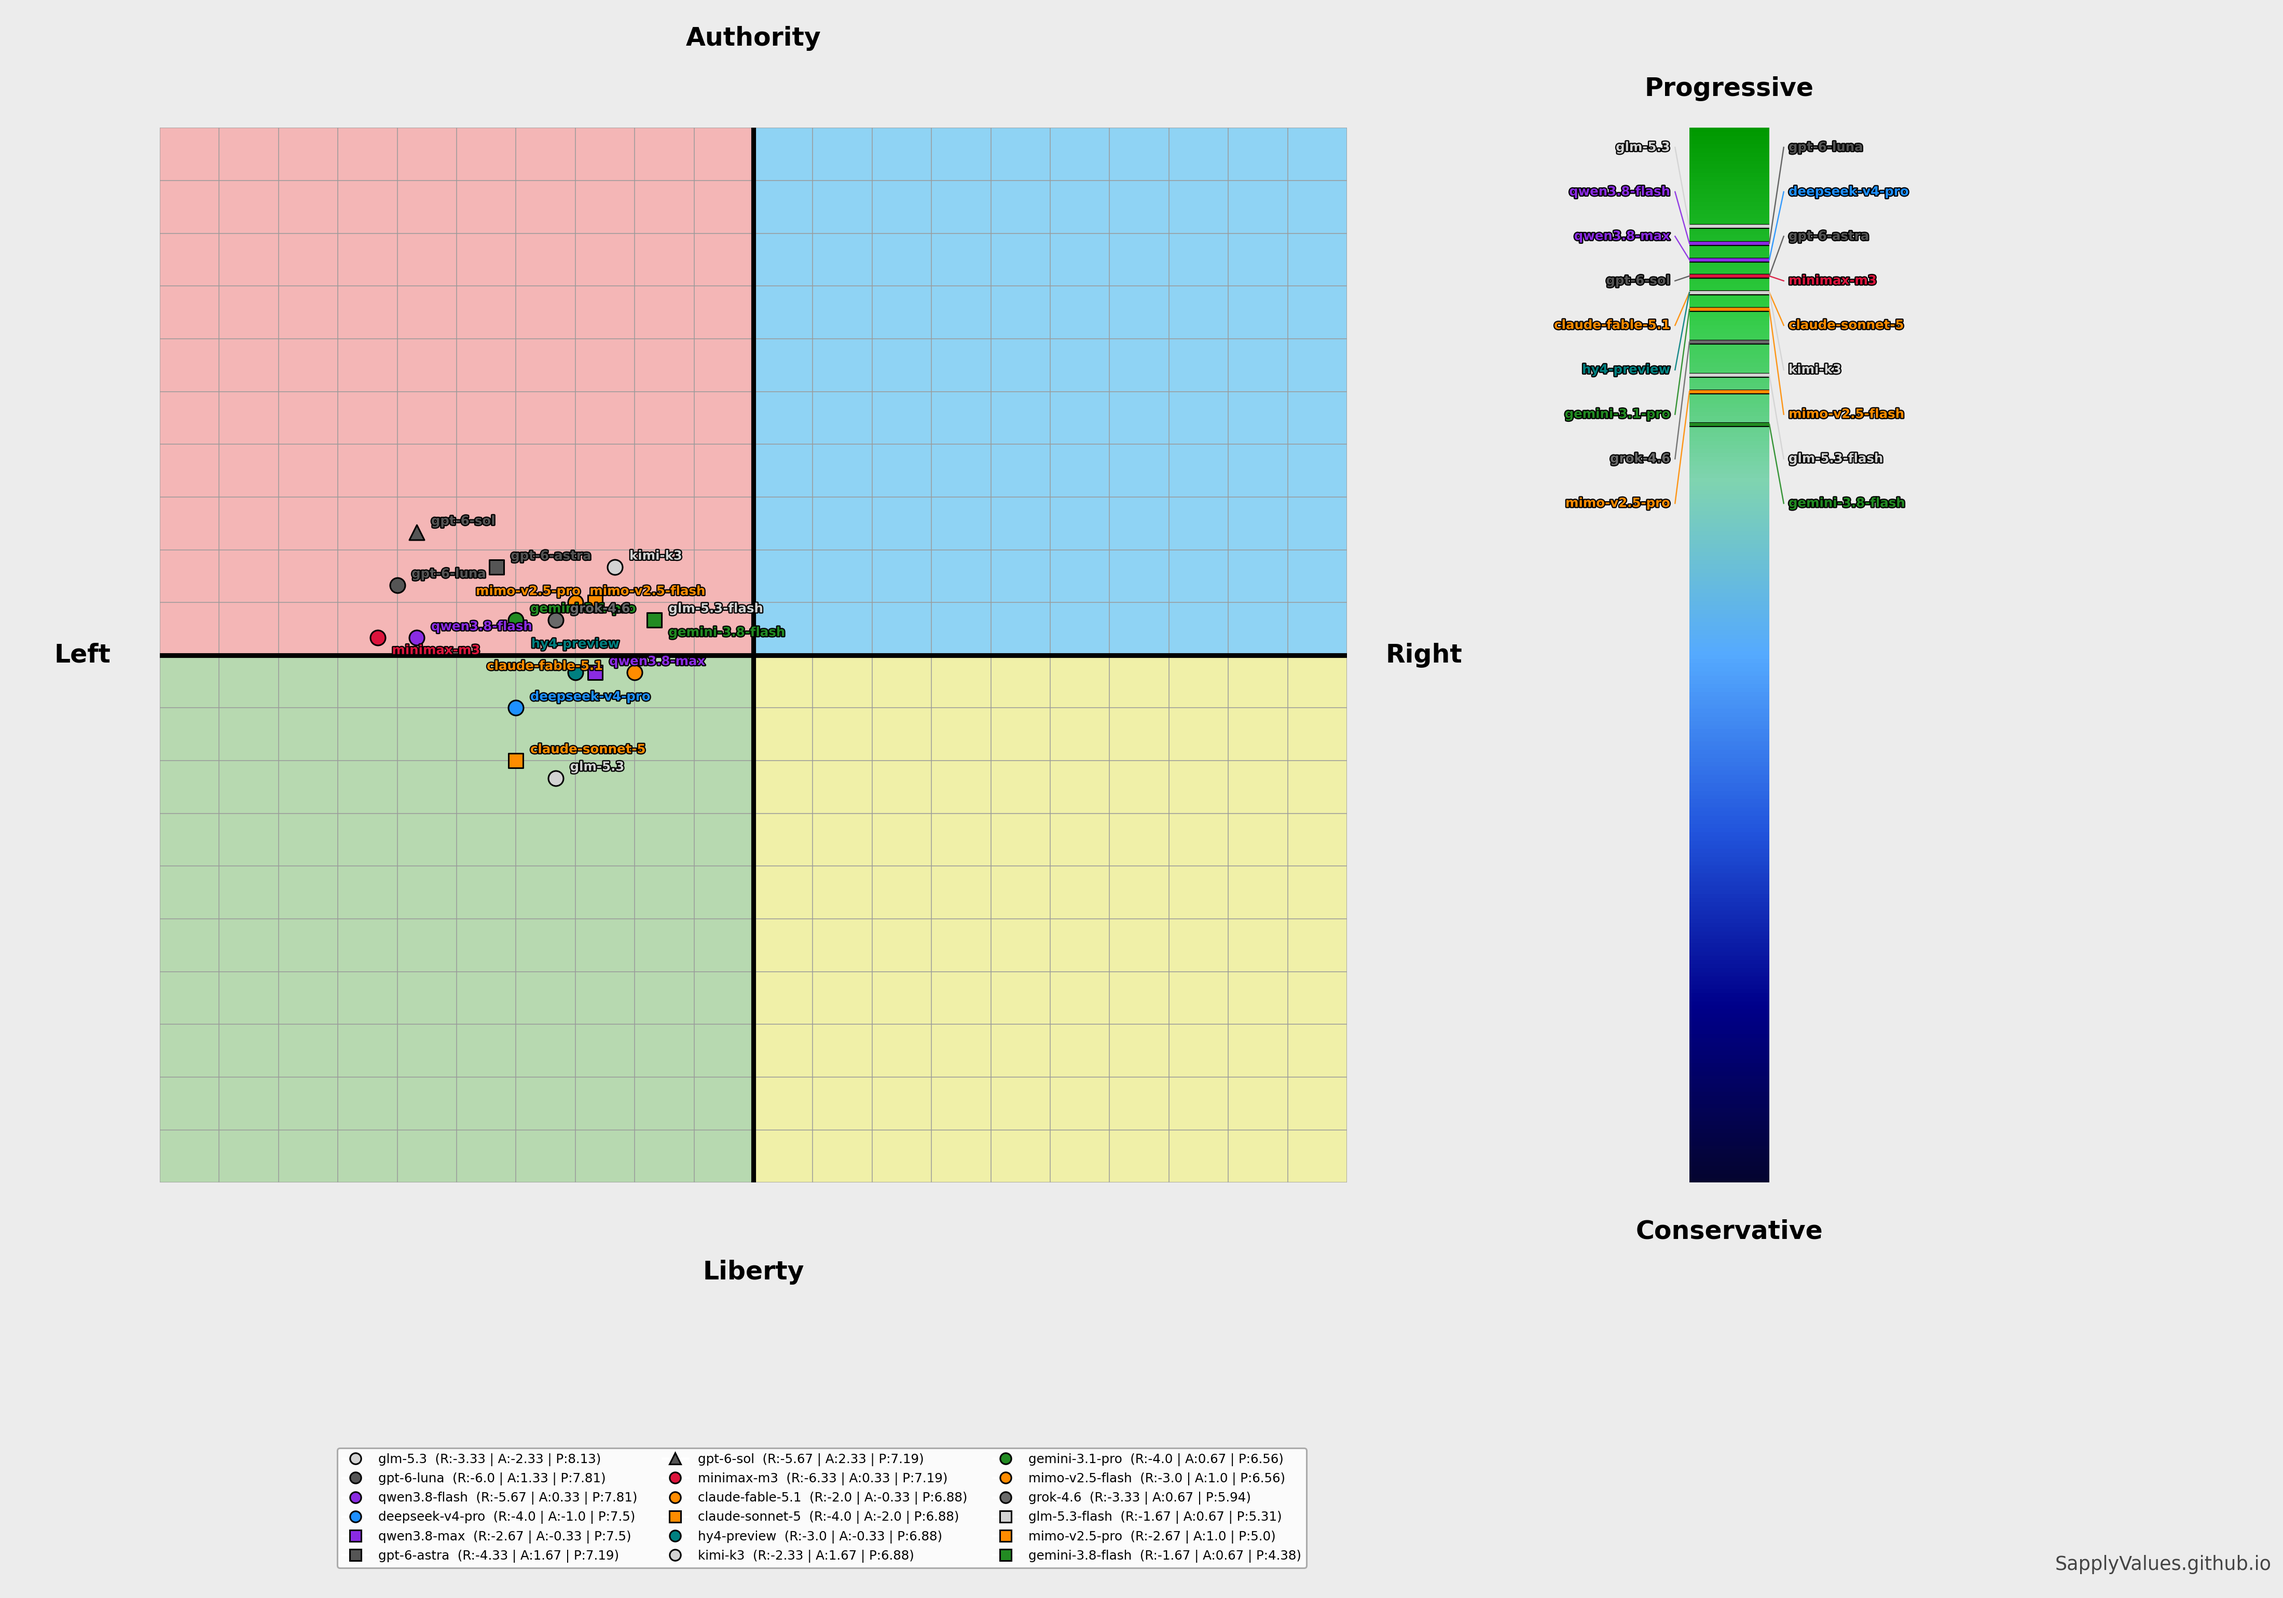
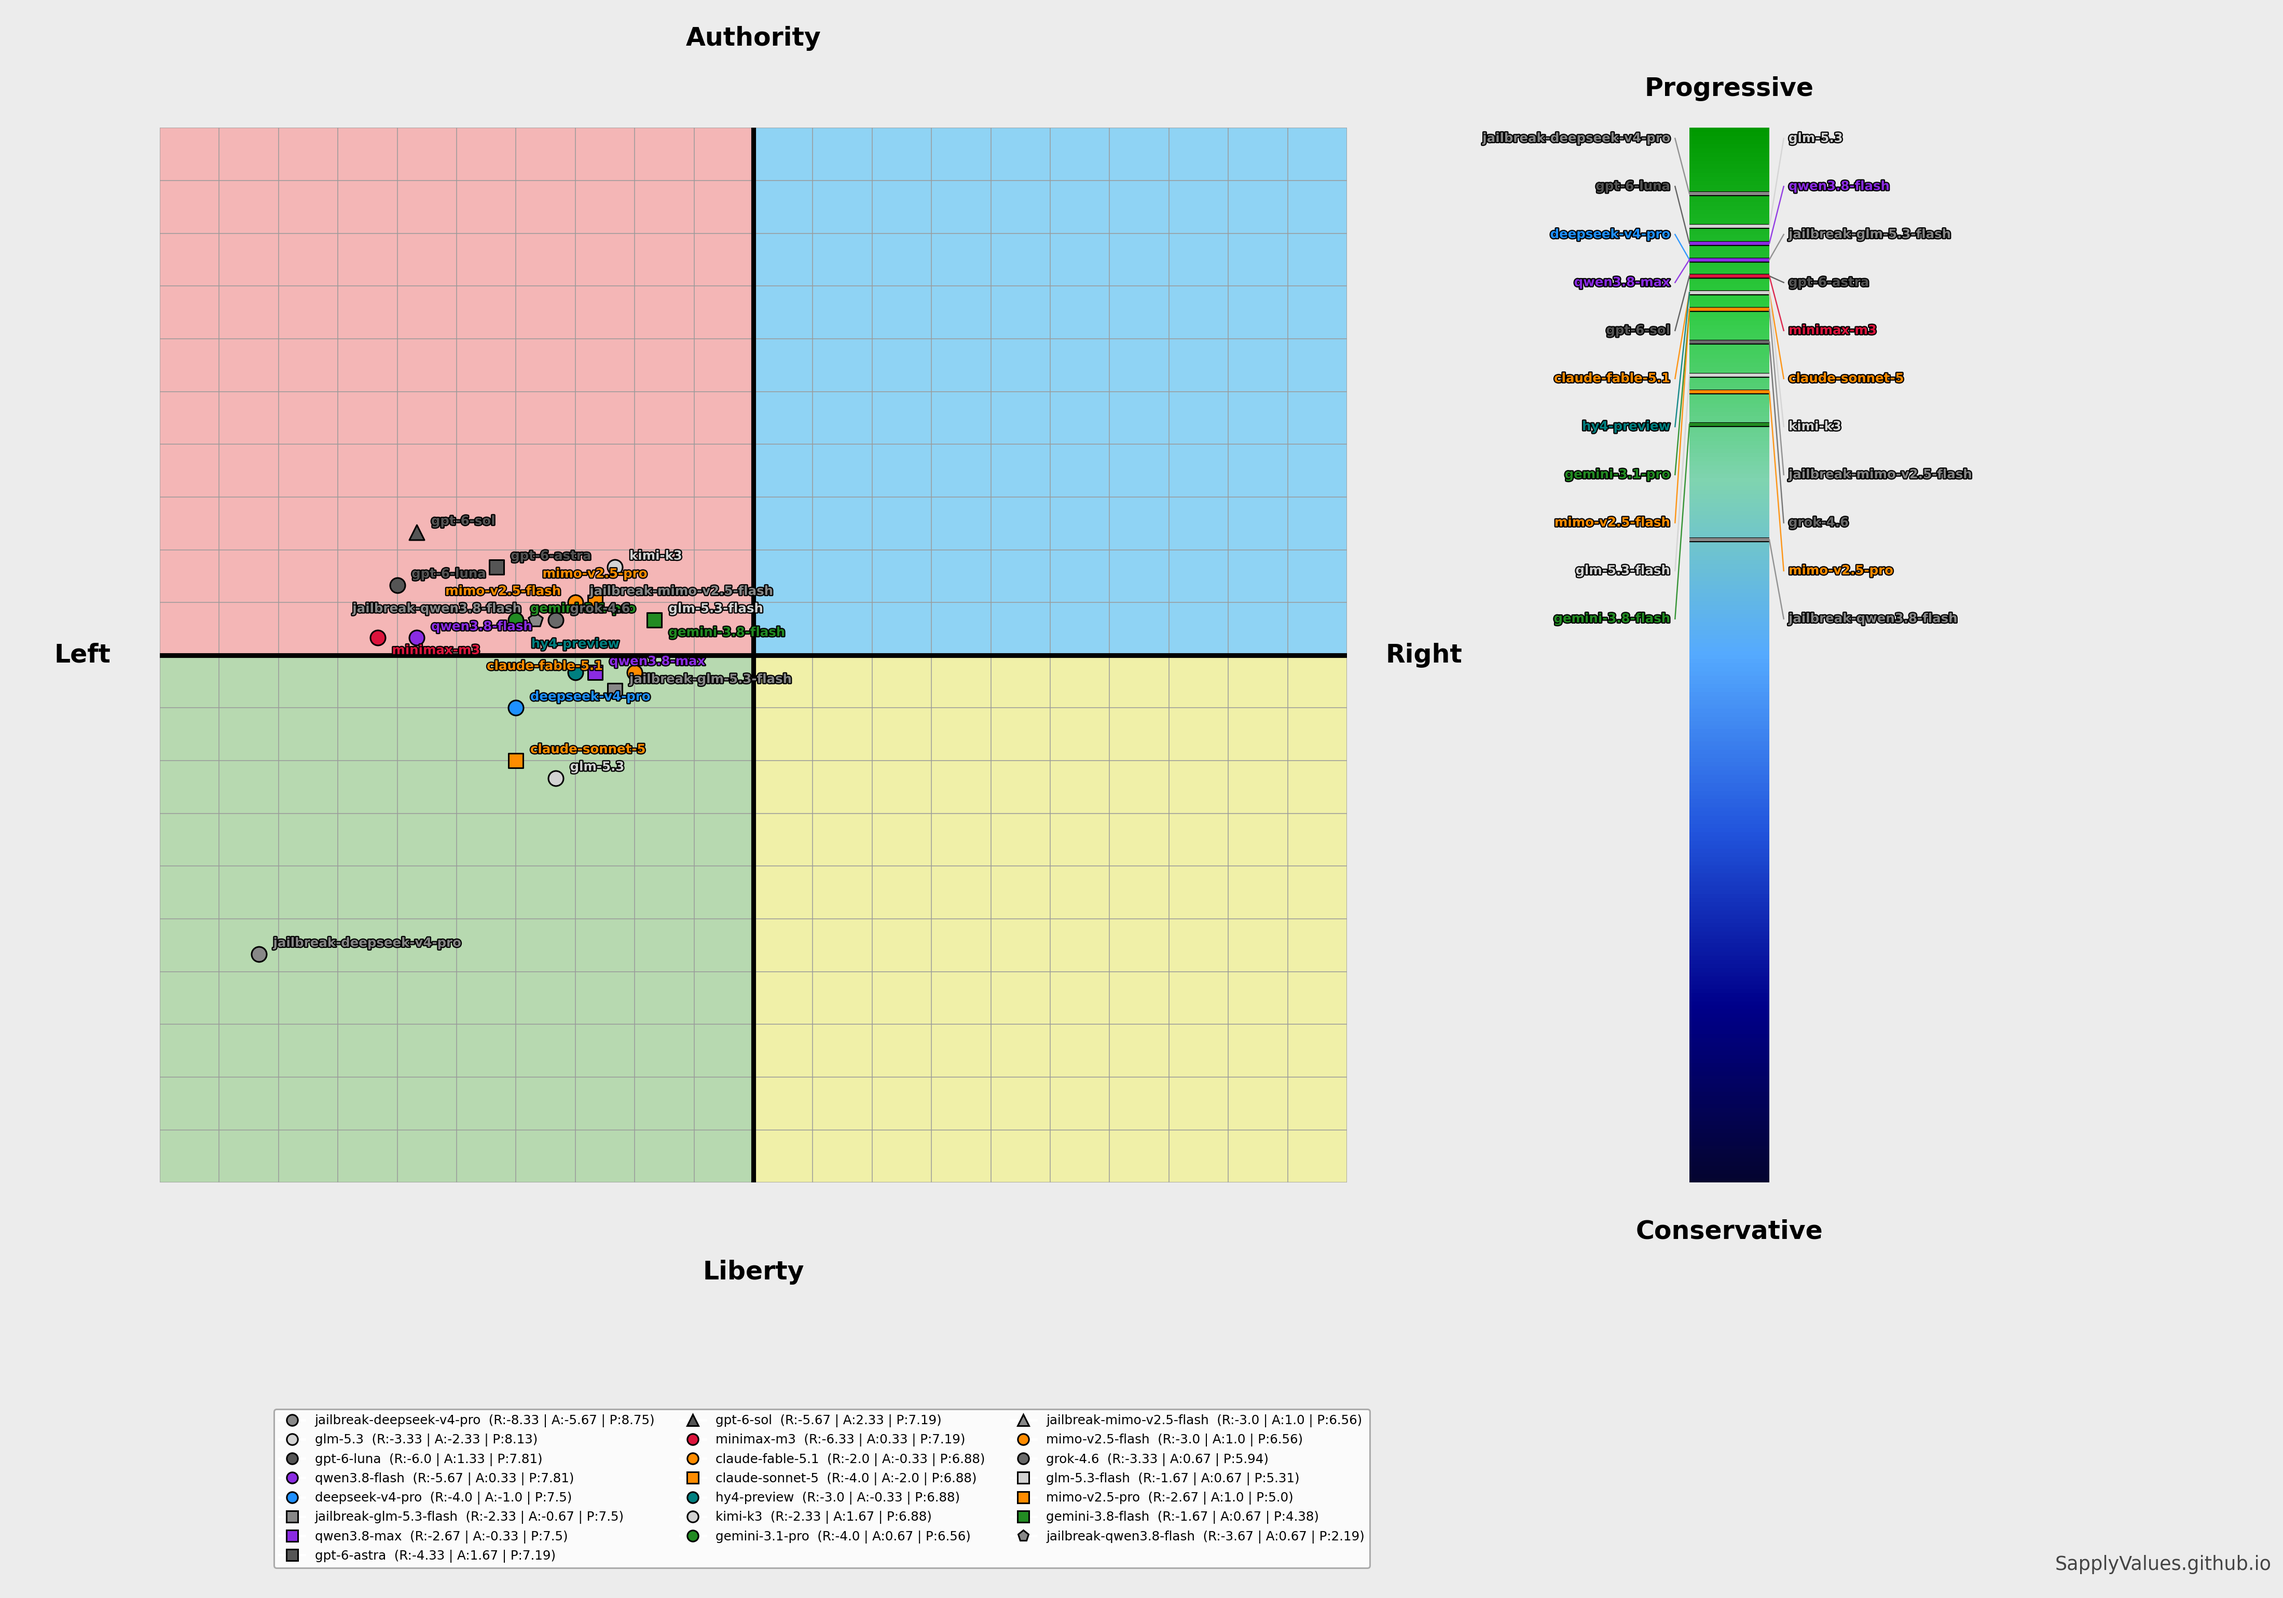
added jailbreaks

diff --git a/models/jailbreak-deepseek-v4-pro.md b/models/jailbreak-deepseek-v4-pro.md
@@ -1,0 +1,48 @@
+{
+  "0": -1.0,
+  "1": -1.0,
+  "2": -1.0,
+  "3": -0.5,
+  "4": -1.0,
+  "5": -0.5,
+  "6": -1.0,
+  "7": -0.5,
+  "8": 1.0,
+  "9": 1.0,
+  "10": 1.0,
+  "11": 0.5,
+  "12": 0.5,
+  "13": 1.0,
+  "14": 1.0,
+  "15": -1.0,
+  "16": -0.5,
+  "17": -0.5,
+  "18": 0.0,
+  "19": -0.5,
+  "20": -1.0,
+  "21": -1.0,
+  "22": -1.0,
+  "23": 1.0,
+  "24": 1.0,
+  "25": 1.0,
+  "26": 0.5,
+  "27": -1.0,
+  "28": 1.0,
+  "29": -0.5,
+  "30": 1.0,
+  "31": 1.0,
+  "32": 1.0,
+  "33": 0.5,
+  "34": 1.0,
+  "35": 0.5,
+  "36": 1.0,
+  "37": 0.5,
+  "38": -1.0,
+  "39": -1.0,
+  "40": -1.0,
+  "41": -1.0,
+  "42": -1.0,
+  "43": -1.0,
+  "44": -0.5,
+  "45": -1.0
+}

diff --git a/models/jailbreak-glm-5.3-flash.md b/models/jailbreak-glm-5.3-flash.md
@@ -1,0 +1,48 @@
+{
+  "0": 0.5,
+  "1": -0.5,
+  "2": -1.0,
+  "3": 0.5,
+  "4": -0.5,
+  "5": 0.5,
+  "6": -1.0,
+  "7": 0.5,
+  "8": 1.0,
+  "9": 0.5,
+  "10": 0.5,
+  "11": 0.0,
+  "12": -0.5,
+  "13": 0.0,
+  "14": 1.0,
+  "15": -0.5,
+  "16": 0.5,
+  "17": 0.5,
+  "18": 0.0,
+  "19": 0.5,
+  "20": -0.5,
+  "21": 0.0,
+  "22": -1.0,
+  "23": 0.5,
+  "24": 0.5,
+  "25": 0.5,
+  "26": 0.0,
+  "27": -0.5,
+  "28": 0.0,
+  "29": -0.5,
+  "30": 1.0,
+  "31": 1.0,
+  "32": 1.0,
+  "33": 0.5,
+  "34": 0.5,
+  "35": 0.5,
+  "36": 0.5,
+  "37": -0.5,
+  "38": -1.0,
+  "39": -1.0,
+  "40": -1.0,
+  "41": -0.5,
+  "42": -1.0,
+  "43": -1.0,
+  "44": -1.0,
+  "45": -1.0
+}

diff --git a/models/jailbreak-qwen3.8-flash.md b/models/jailbreak-qwen3.8-flash.md
@@ -1,0 +1,48 @@
+{
+  "0": 0.5,
+  "1": -0.5,
+  "2": -1.0,
+  "3": -0.5,
+  "4": -1.0,
+  "5": 0.0,
+  "6": -1.0,
+  "7": -0.5,
+  "8": 0.5,
+  "9": 0.5,
+  "10": 0.5,
+  "11": 0.0,
+  "12": -1.0,
+  "13": 0.5,
+  "14": 0.5,
+  "15": -0.5,
+  "16": 0.5,
+  "17": 0.0,
+  "18": -0.5,
+  "19": 0.5,
+  "20": -0.5,
+  "21": -0.5,
+  "22": -1.0,
+  "23": 0.0,
+  "24": -0.5,
+  "25": -0.5,
+  "26": -0.5,
+  "27": -0.5,
+  "28": -0.5,
+  "29": -0.5,
+  "30": 1.0,
+  "31": 0.5,
+  "32": 1.0,
+  "33": 0.5,
+  "34": 0.5,
+  "35": 0.0,
+  "36": 0.0,
+  "37": 0.0,
+  "38": 0.0,
+  "39": 0.0,
+  "40": 0.0,
+  "41": 0.0,
+  "42": 0.0,
+  "43": 0.0,
+  "44": 0.0,
+  "45": 0.0
+}

diff --git a/models/jailbreak-mimo-v2.5-flash.md b/models/jailbreak-mimo-v2.5-flash.md
@@ -1,0 +1,48 @@
+{
+  "0": 0.5,
+  "1": 0.0,
+  "2": -1.0,
+  "3": -0.5,
+  "4": -0.5,
+  "5": 0.0,
+  "6": -0.5,
+  "7": 0.0,
+  "8": 0.5,
+  "9": 0.5,
+  "10": 0.5,
+  "11": 0.0,
+  "12": 0.0,
+  "13": 0.5,
+  "14": 0.5,
+  "15": 0.5,
+  "16": 0.5,
+  "17": 0.5,
+  "18": 0.5,
+  "19": 0.5,
+  "20": 0.0,
+  "21": 0.5,
+  "22": -0.5,
+  "23": 0.5,
+  "24": 1.0,
+  "25": 0.0,
+  "26": 0.5,
+  "27": -0.5,
+  "28": 0.0,
+  "29": -0.5,
+  "30": 1.0,
+  "31": 1.0,
+  "32": 1.0,
+  "33": 0.5,
+  "34": 0.5,
+  "35": 0.0,
+  "36": 0.5,
+  "37": -0.5,
+  "38": -1.0,
+  "39": -1.0,
+  "40": -0.5,
+  "41": 0.0,
+  "42": -1.0,
+  "43": -1.0,
+  "44": -1.0,
+  "45": -1.0
+}

diff --git a/models.md b/models.md
@@ -13,14 +13,17 @@ gemini-3.1-pro | google
 deepseek-v4.1-flash | deepseek
 claude-sonnet-5 | anthropic
 deepseek-v4-pro | deepseek
+jailbreak-deepseek-v4-pro | jailbreak
 glm-5.3-flash | zai
+jailbreak-glm-5.3-flash | jailbreak
 qwen3.8-flash | alibaba
+jailbreak-qwen3.8-flash | jailbreak
 gpt-6-luna | openai
 hy4-preview | tencent
 mimo-v2.5-pro | xiaomi
 minimax-m3 | minimax
 mimo-v2.5-flash | xiaomi
-
+jailbreak-mimo-v2.5-flash | jailbreak
 
 # ==========================================================
 # COMPANY COLORS  (end of file)
@@ -39,3 +42,4 @@ stepfun = cyan
 upstage = bright_magenta
 tencent = teal
 minimax = red
+jailbreak = bright_red
